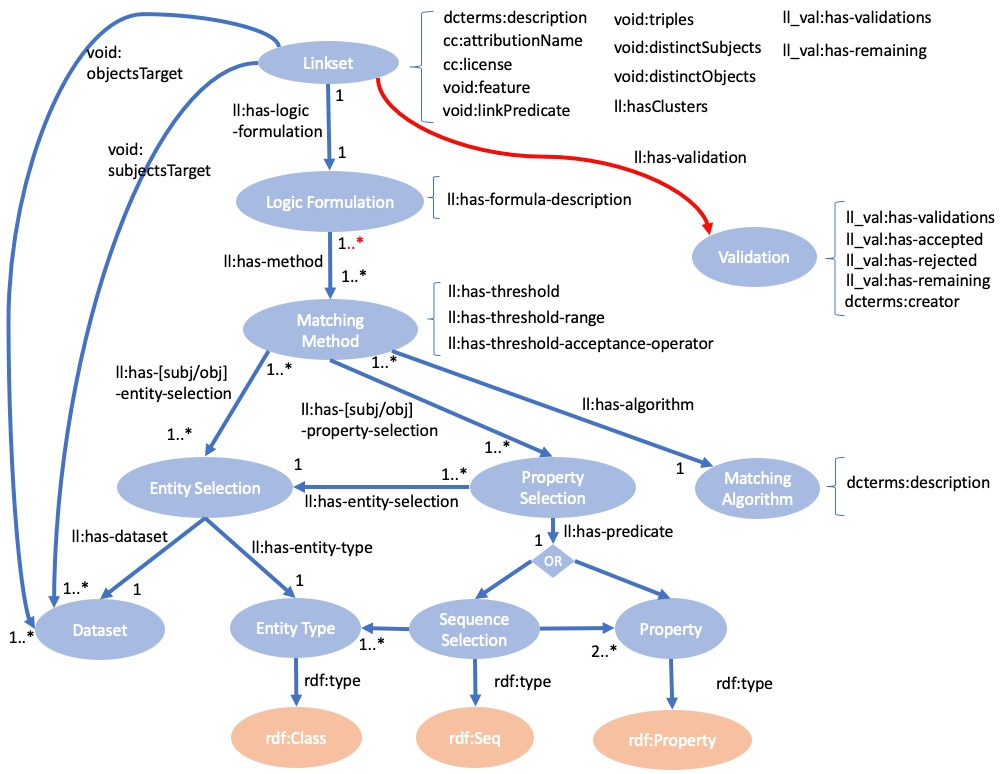
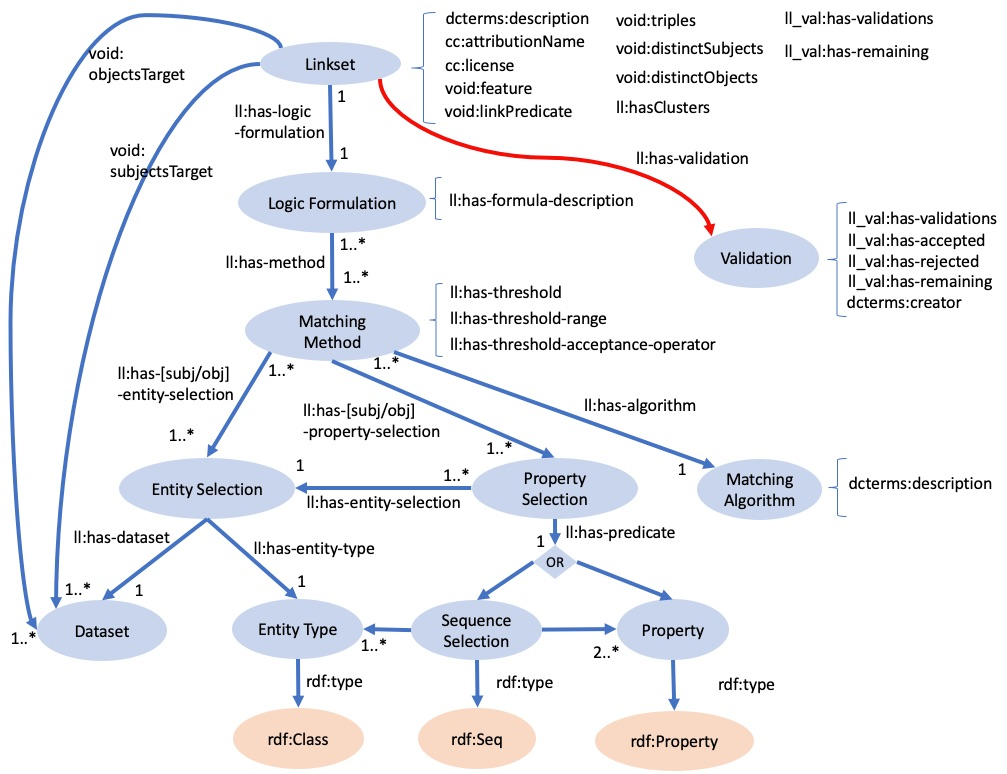
Add files via upload
Ontology Figure Update

diff --git a/LenticularLens-Documentation.html b/LenticularLens-Documentation.html
@@ -961,7 +961,7 @@ ex:linkset-1
 
 <!--------------------------------------------------------------------->
 
-<p><div align="center"><br><img src="Images/Ontology.jpg" alt="Grid&#39;s Education">  Fig 4.11: An example showing how to deduplicate a dataset using an edit distance with threshold 0.9. </div></p>
+<p><div align="center"><br><img src="Images/Ontology.jpg" alt="Grid&#39;s Education">  Fig 2.1: The Lenticular Lens Ontology </div></p>
 
 <!--------------------------------------------------------------------->
 
